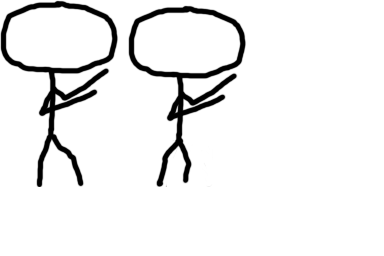
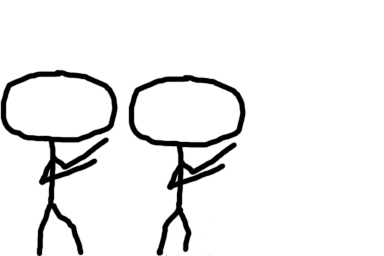
fix sprite map

Changed region(s): [[0.0, 0.0, 0.6562, 1.0]]

diff --git a/fighter.py b/fighter.py
@@ -8,7 +8,7 @@ class Fighter(pygame.sprite.Sprite):
         pygame.sprite.Sprite.__init__(self)
         self.world = world
         self.color = pygame.Color(200, 0, 0, 255)
-        self.sprite_map = SpriteMap('gfx/fighter.json', filter=util.create_colorizer(self.color))
+        self.sprite_map = SpriteMap('gfx/fighter.json')
         self.rect = pygame.Rect(0, 0, 128, 256)
 
     def render(self, surface):

diff --git a/create_spritemap.py b/create_spritemap.py
@@ -16,6 +16,7 @@ for name, props in sprite_data['sprites'].items():
 	x = props['index'] % SPRITES_PER_ROW * SPRITE_WIDTH
 	y = props['index'] / SPRITES_PER_ROW * SPRITE_HEIGHT
 	sprite_img = Image.open(props['file'])
+	y += SPRITE_HEIGHT - sprite_img.size[1]
 	outimage.paste(sprite_img, (x, y))
 
 outimage.save(sprite_data['map'], 'PNG')
